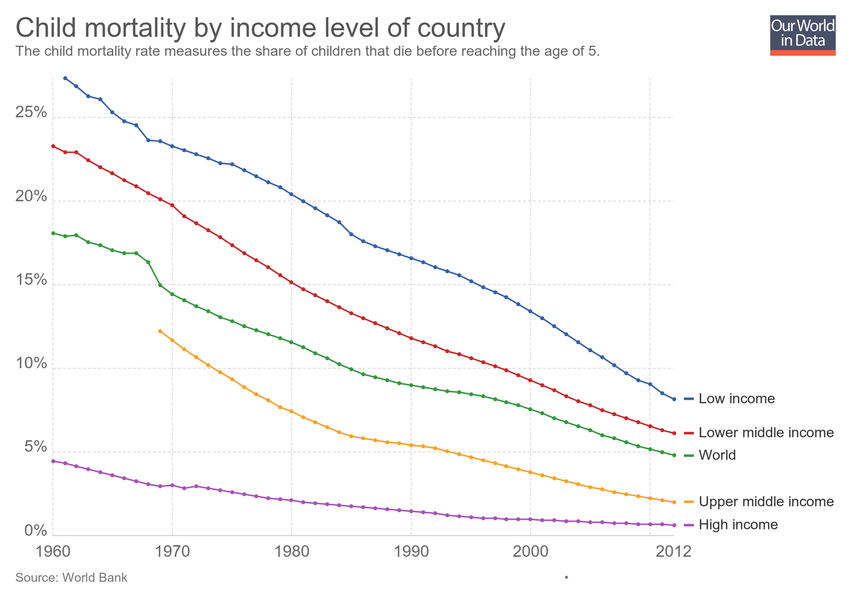
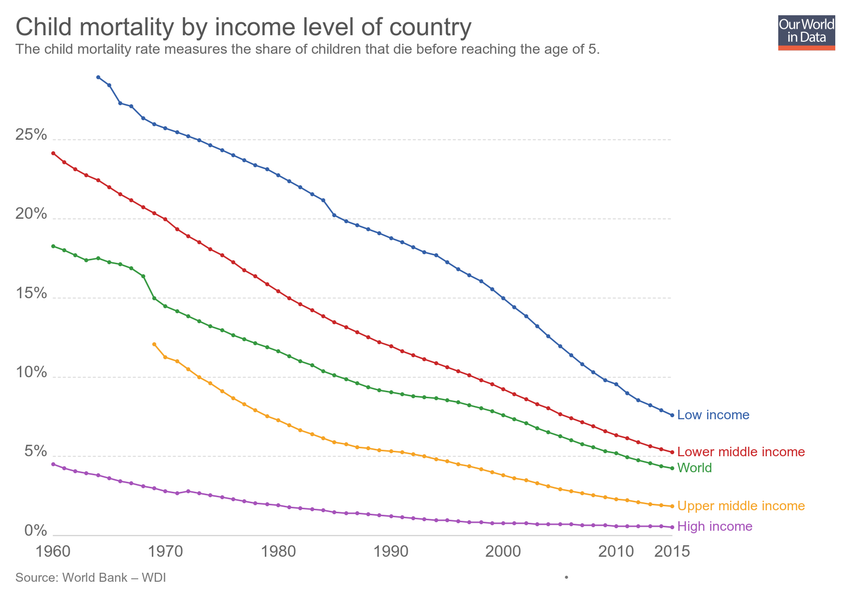
Updating chart child-mortality-by-income-level-of-country

diff --git a/grapher/child-mortality-by-income-level-of-country.html b/grapher/child-mortality-by-income-level-of-country.html
@@ -1,4 +1,4 @@
-<!doctype html><html><head><meta name="viewport" content="width=device-width, initial-scale=1" /><title>Child mortality by income level of country - Our World in Data</title><meta name="description" content="The child mortality rate measures the share of children that die before reaching the age of 5." /><link rel="canonical" href="https://ourworldindata.org/grapher/child-mortality-by-income-level-of-country" /><meta property="fb:app_id" content="1149943818390250" /><meta property="og:url" content="https://ourworldindata.org/grapher/child-mortality-by-income-level-of-country" /><meta property="og:title" content="Child mortality by income level of country" /><meta property="og:description" content="The child mortality rate measures the share of children that die before reaching the age of 5." /><meta property="og:image" content="https://ourworldindata.org/grapher/exports/child-mortality-by-income-level-of-country.png?v=1" /><meta property="og:image:width" content="850" /><meta property="og:image:height" content="600" /><meta property="og:site_name" content="Our World in Data" /><meta name="twitter:card" content="summary_large_image" /><meta name="twitter:site" content="@OurWorldInData" /><meta name="twitter:creator" content="@OurWorldInData" /><meta name="twitter:title" content="Child mortality by income level of country" /><meta name="twitter:description" content="The child mortality rate measures the share of children that die before reaching the age of 5." /><meta name="twitter:image" content="https://ourworldindata.org/grapher/exports/child-mortality-by-income-level-of-country.png?v=1" /><style>
+<!doctype html><html><head><meta name="viewport" content="width=device-width, initial-scale=1" /><title>Child mortality by income level of country - Our World in Data</title><meta name="description" content="The child mortality rate measures the share of children that die before reaching the age of 5." /><link rel="canonical" href="https://ourworldindata.org/grapher/child-mortality-by-income-level-of-country" /><meta property="fb:app_id" content="1149943818390250" /><meta property="og:url" content="https://ourworldindata.org/grapher/child-mortality-by-income-level-of-country" /><meta property="og:title" content="Child mortality by income level of country" /><meta property="og:description" content="The child mortality rate measures the share of children that die before reaching the age of 5." /><meta property="og:image" content="https://ourworldindata.org/grapher/exports/child-mortality-by-income-level-of-country.png?v=2" /><meta property="og:image:width" content="850" /><meta property="og:image:height" content="600" /><meta property="og:site_name" content="Our World in Data" /><meta name="twitter:card" content="summary_large_image" /><meta name="twitter:site" content="@OurWorldInData" /><meta name="twitter:creator" content="@OurWorldInData" /><meta name="twitter:title" content="Child mortality by income level of country" /><meta name="twitter:description" content="The child mortality rate measures the share of children that die before reaching the age of 5." /><meta name="twitter:image" content="https://ourworldindata.org/grapher/exports/child-mortality-by-income-level-of-country.png?v=2" /><style>
         html, body {
             height: 100%;
             margin: 0;
@@ -20,8 +20,8 @@
         }
     </style><noscript><style>
                     figure { display: none !important; }
-                </style></noscript><link rel="stylesheet" href="https://ourworldindata.org/grapher/assets/commons.bundle.dcbbe53805c487d5e57617b10ac73a8a.css" /><link rel="preload" href="/grapher/data/variables/261.json?v=1" as="fetch" crossorigin /></head><body class="singleChart"><figure data-grapher-src="/grapher/child-mortality-by-income-level-of-country"></figure><noscript id="fallback"><img src="/grapher/exports/child-mortality-by-income-level-of-country.svg" /><p>Interactive visualization requires JavaScript</p></noscript><script src="https://cdn.polyfill.io/v2/polyfill.min.js?features=es6,fetch"></script><script src="https://ourworldindata.org/grapher/assets/commons.bundle.da523acc49807a06a11f.js"></script><script src="https://ourworldindata.org/grapher/assets/charts.bundle.da523acc49807a06a11f.js"></script><script>
-        var jsonConfig = {"id":197,"map":{"projection":"World","targetYear":1980,"variableId":261,"timeTolerance":1,"legendStepSize":20,"baseColorScheme":"BuGn","colorSchemeLabels":[],"defaultProjection":"World","legendDescription":"","customNumericColors":["#000","#c00","#0c0","#00c","#c0c"],"customCategoryColors":{},"customCategoryLabels":{},"customHiddenCategories":{}},"tab":"chart","slug":"child-mortality-by-income-level-of-country","type":"LineChart","title":"Child mortality by income level of country","xAxis":{"scaleType":"linear"},"yAxis":{"min":0,"scaleType":"linear","labelDistance":-10},"version":1,"subtitle":"The child mortality rate measures the share of children that die before reaching the age of 5.","hasMapTab":false,"originUrl":"https://ourworldindata.org/child-mortality/","stackMode":"absolute","dimensions":[{"id":8556,"order":0,"chartId":197,"display":{"name":"Child Mortality Rate","unit":"%","tolerance":5,"isProjection":false,"conversionFactor":0.1},"property":"y","targetYear":2000,"variableId":261}],"hideLegend":false,"hasChartTab":true,"isPublished":true,"selectedData":[{"index":0,"entityId":355},{"index":0,"entityId":340},{"index":0,"entityId":327},{"index":0,"entityId":326},{"index":0,"entityId":320}],"internalNotes":"","addCountryMode":"disabled","invertColorScheme":true};
+                </style></noscript><link rel="stylesheet" href="https://ourworldindata.org/grapher/assets/commons.bundle.dcbbe53805c487d5e57617b10ac73a8a.css" /><link rel="preload" href="/grapher/data/variables/3398.json?v=2" as="fetch" crossorigin /></head><body class="singleChart"><figure data-grapher-src="/grapher/child-mortality-by-income-level-of-country"></figure><noscript id="fallback"><img src="/grapher/exports/child-mortality-by-income-level-of-country.svg" /><p>Interactive visualization requires JavaScript</p></noscript><script src="https://cdn.polyfill.io/v2/polyfill.min.js?features=es6,fetch"></script><script src="https://ourworldindata.org/grapher/assets/commons.bundle.da523acc49807a06a11f.js"></script><script src="https://ourworldindata.org/grapher/assets/charts.bundle.da523acc49807a06a11f.js"></script><script>
+        var jsonConfig = {"id":197,"map":{"projection":"World","targetYear":1980,"variableId":261,"timeTolerance":1,"baseColorScheme":"BuGn","colorSchemeLabels":[],"colorSchemeValues":[],"legendDescription":"","customNumericColors":["#000","#c00","#0c0","#00c","#c0c"],"customCategoryColors":{},"customCategoryLabels":{},"customHiddenCategories":{}},"tab":"chart","slug":"child-mortality-by-income-level-of-country","type":"LineChart","title":"Child mortality by income level of country","xAxis":{"scaleType":"linear"},"yAxis":{"min":0,"scaleType":"linear","labelDistance":-10},"version":2,"subtitle":"The child mortality rate measures the share of children that die before reaching the age of 5.","hasMapTab":false,"originUrl":"https://ourworldindata.org/child-mortality/","stackMode":"absolute","dimensions":[{"display":{},"property":"y","variableId":3398}],"hideLegend":false,"hasChartTab":true,"isPublished":true,"selectedData":[{"index":0,"entityId":326},{"index":0,"entityId":327},{"index":0,"entityId":340},{"index":0,"entityId":320},{"index":0,"entityId":355}],"internalNotes":"","addCountryMode":"add-country","invertColorScheme":true};
         var figure = document.getElementsByTagName("figure")[0];
         try {
             window.App = {};
